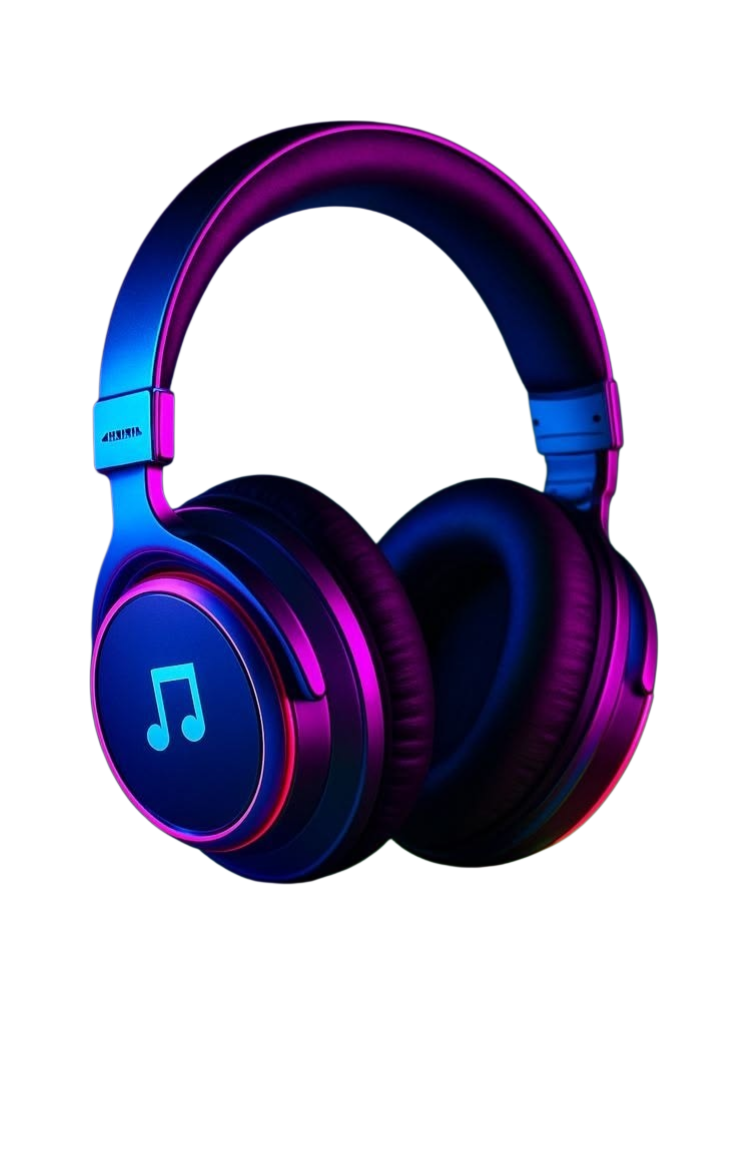
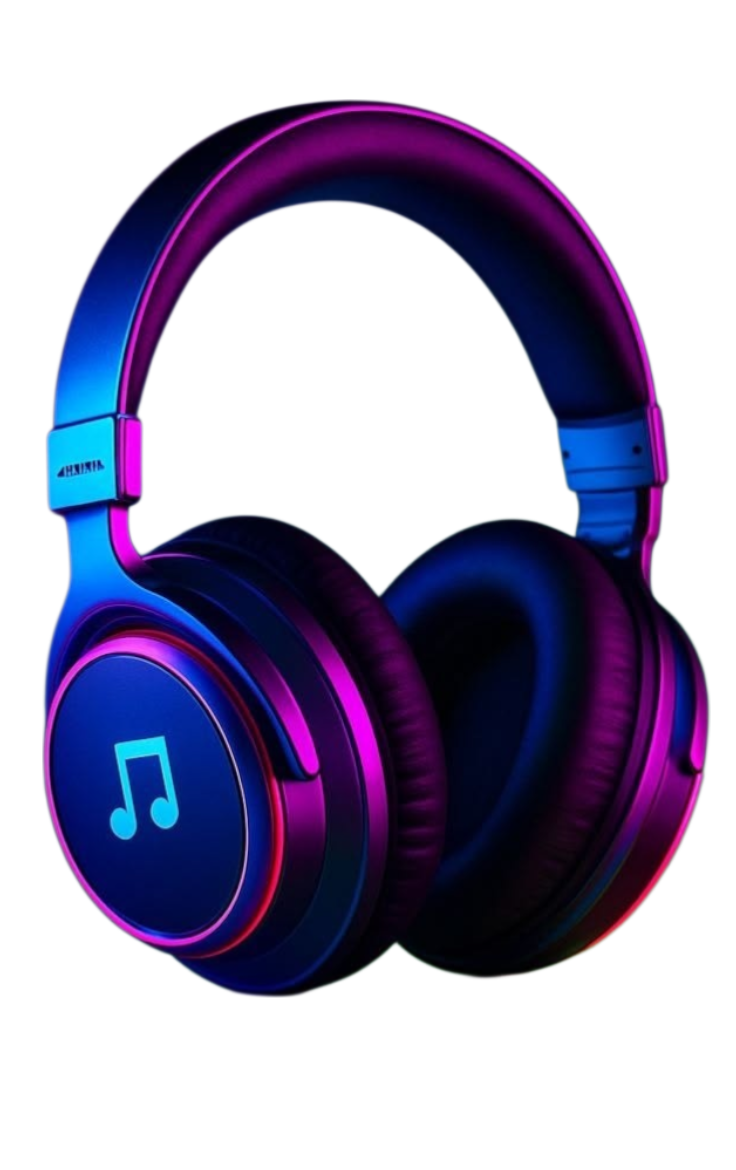
Mais atualizacaoes do hero

diff --git a/e-comerce/src/components/DealCountDown.jsx b/e-comerce/src/components/DealCountDown.jsx
@@ -167,7 +167,7 @@ export default function DealCountdown() {
               style={{ background: "radial-gradient(circle at 50% 50%, rgba(22,163,74,.12), transparent 70%)" }}
             />
             <img
-              src="https://images.unsplash.com/photo-1614777986387-7b41ec553e46?w=400&q=85&auto=format"
+              src="public/images/headfone.jpg"
               alt="Air Fryer"
               className="w-[270px] h-[270px] object-cover rounded-[20px] block relative z-[1]
                 hover:scale-[1.03] transition-transform duration-500"
